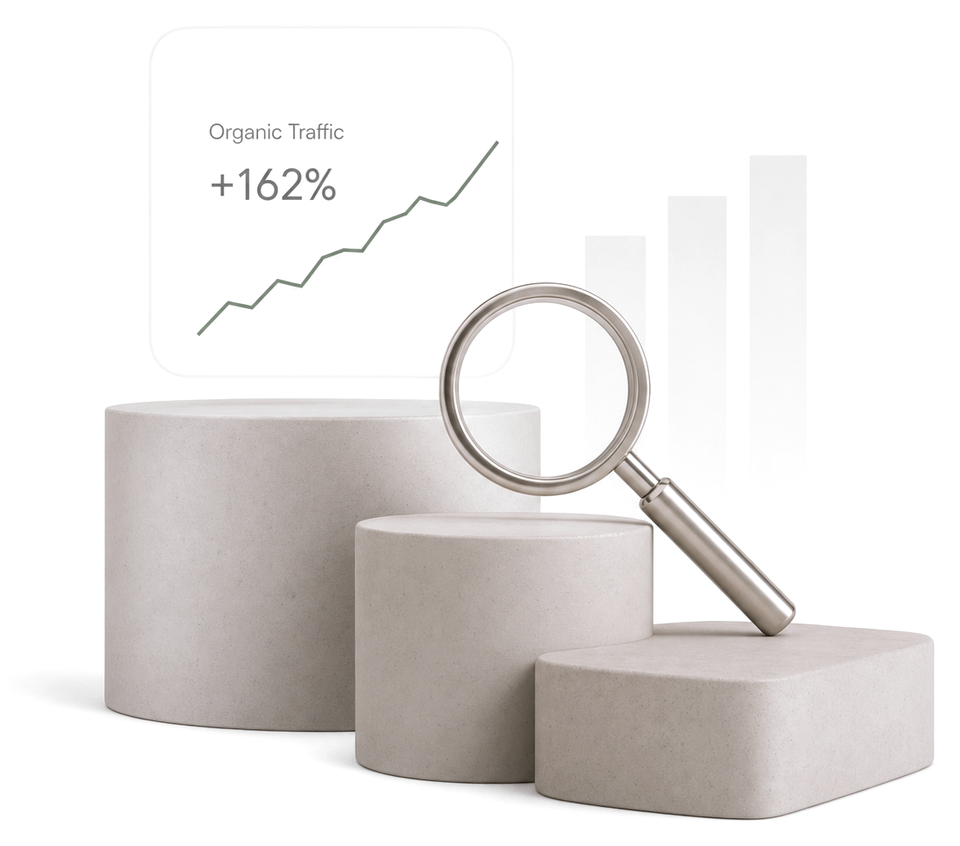
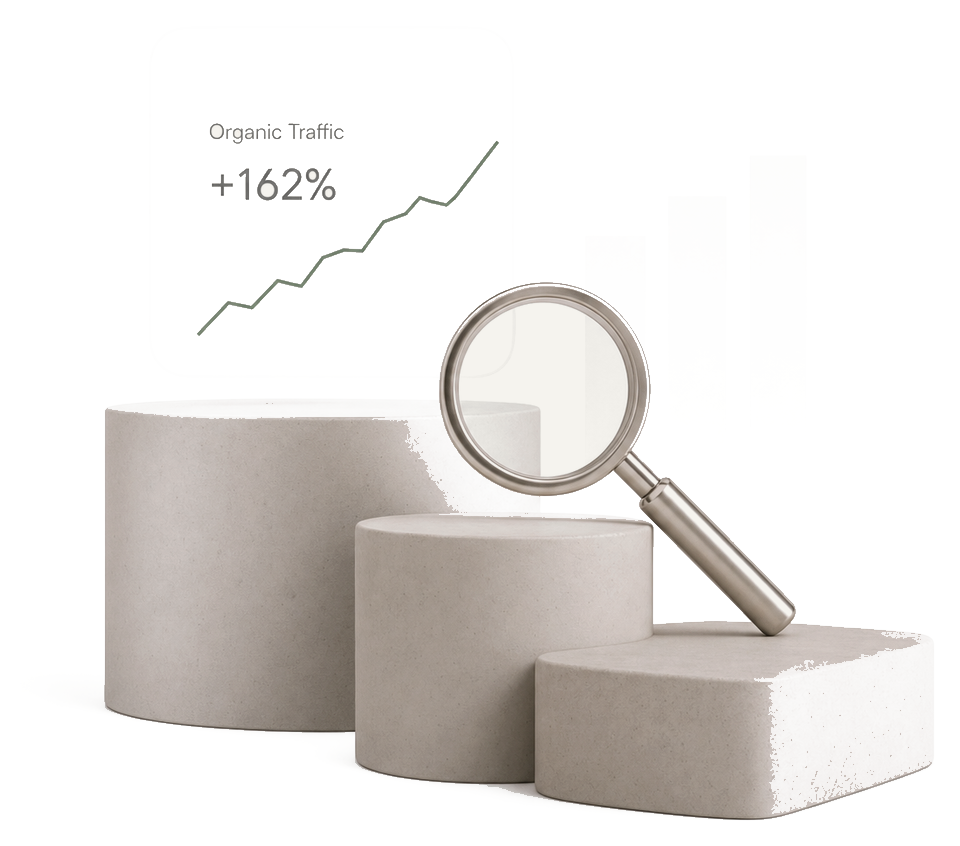
Add services hero river backdrop, solidify podium artwork, vary result charts
- Services hero: misty river/lake background with text-side mist band, lake visible, deeper section
- Flatten + hole-fill services-hero.png so podiums render solid over the backdrop
- Enlarge and lower the hero visual to fill the right column
- Three distinct result sparkline shapes (climb / dip-recover / steps), EN + LT
- Tighten process section bottom padding; desaturate problem map further

diff --git a/lt/index.html b/lt/index.html
@@ -14,7 +14,7 @@
   <link rel="icon" href="../favicon.ico" sizes="32x32" />
   <link rel="icon" type="image/png" sizes="192x192" href="../assets/favicon-192.png" />
   <link rel="apple-touch-icon" href="../assets/apple-touch-icon.png" />
-  <link rel="stylesheet" href="../styles.css?v=14" />
+  <link rel="stylesheet" href="../styles.css?v=16" />
 </head>
 <body>
 
@@ -319,9 +319,9 @@
             <p>Per 6 mėnesius organinis srautas išaugo nuo 45 tūkst. iki 115 tūkst.</p>
             <svg class="result-chart" viewBox="0 0 300 90" preserveAspectRatio="none" aria-hidden="true">
               <defs><linearGradient id="g1" x1="0" y1="0" x2="0" y2="1"><stop offset="0" stop-color="#8A9878" stop-opacity=".35"/><stop offset="1" stop-color="#8A9878" stop-opacity="0"/></linearGradient></defs>
-              <path d="M0 70 40 60 80 66 120 48 160 56 200 34 240 40 280 22 300 14 V90 H0Z" fill="url(#g1)"/>
-              <polyline points="0,70 40,60 80,66 120,48 160,56 200,34 240,40 280,22 300,14" fill="none" stroke="#5B6B4A" stroke-width="2" stroke-linejoin="round"/>
-              <g fill="#5B6B4A"><circle cx="40" cy="60" r="2.5"/><circle cx="80" cy="66" r="2.5"/><circle cx="120" cy="48" r="2.5"/><circle cx="160" cy="56" r="2.5"/><circle cx="200" cy="34" r="2.5"/><circle cx="240" cy="40" r="2.5"/><circle cx="280" cy="22" r="2.5"/></g>
+              <path d="M0 74 40 72 80 69 120 62 160 50 200 38 240 27 280 18 300 14 V90 H0Z" fill="url(#g1)"/>
+              <polyline points="0,74 40,72 80,69 120,62 160,50 200,38 240,27 280,18 300,14" fill="none" stroke="#5B6B4A" stroke-width="2" stroke-linejoin="round"/>
+              <g fill="#5B6B4A"><circle cx="40" cy="72" r="2.5"/><circle cx="80" cy="69" r="2.5"/><circle cx="120" cy="62" r="2.5"/><circle cx="160" cy="50" r="2.5"/><circle cx="200" cy="38" r="2.5"/><circle cx="240" cy="27" r="2.5"/><circle cx="280" cy="18" r="2.5"/></g>
             </svg>
             <a href="#results" class="learn">Žiūrėti sėkmės istoriją <span class="arrow">→</span></a>
           </article>
@@ -332,9 +332,9 @@
             <p>Per 7 mėnesius organinės pajamos išaugo nuo 82 tūkst. $ iki 258 tūkst. $.</p>
             <svg class="result-chart" viewBox="0 0 300 90" preserveAspectRatio="none" aria-hidden="true">
               <defs><linearGradient id="g2" x1="0" y1="0" x2="0" y2="1"><stop offset="0" stop-color="#8A9878" stop-opacity=".35"/><stop offset="1" stop-color="#8A9878" stop-opacity="0"/></linearGradient></defs>
-              <path d="M0 74 40 62 80 68 120 52 160 58 200 38 240 44 280 24 300 12 V90 H0Z" fill="url(#g2)"/>
-              <polyline points="0,74 40,62 80,68 120,52 160,58 200,38 240,44 280,24 300,12" fill="none" stroke="#5B6B4A" stroke-width="2" stroke-linejoin="round"/>
-              <g fill="#5B6B4A"><circle cx="40" cy="62" r="2.5"/><circle cx="80" cy="68" r="2.5"/><circle cx="120" cy="52" r="2.5"/><circle cx="160" cy="58" r="2.5"/><circle cx="200" cy="38" r="2.5"/><circle cx="240" cy="44" r="2.5"/><circle cx="280" cy="24" r="2.5"/></g>
+              <path d="M0 56 40 63 80 74 120 68 160 52 200 40 240 26 280 16 300 12 V90 H0Z" fill="url(#g2)"/>
+              <polyline points="0,56 40,63 80,74 120,68 160,52 200,40 240,26 280,16 300,12" fill="none" stroke="#5B6B4A" stroke-width="2" stroke-linejoin="round"/>
+              <g fill="#5B6B4A"><circle cx="40" cy="63" r="2.5"/><circle cx="80" cy="74" r="2.5"/><circle cx="120" cy="68" r="2.5"/><circle cx="160" cy="52" r="2.5"/><circle cx="200" cy="40" r="2.5"/><circle cx="240" cy="26" r="2.5"/><circle cx="280" cy="16" r="2.5"/></g>
             </svg>
             <a href="#results" class="learn">Žiūrėti sėkmės istoriją <span class="arrow">→</span></a>
           </article>
@@ -345,9 +345,9 @@
             <p>Daugiau nei 120 raktažodžių pateko į pirmą trejetą, įskaitant didelio pirkimo ketinimo užklausas.</p>
             <svg class="result-chart" viewBox="0 0 300 90" preserveAspectRatio="none" aria-hidden="true">
               <defs><linearGradient id="g3" x1="0" y1="0" x2="0" y2="1"><stop offset="0" stop-color="#8A9878" stop-opacity=".35"/><stop offset="1" stop-color="#8A9878" stop-opacity="0"/></linearGradient></defs>
-              <path d="M0 68 40 72 80 58 120 62 160 44 200 50 240 30 280 34 300 12 V90 H0Z" fill="url(#g3)"/>
-              <polyline points="0,68 40,72 80,58 120,62 160,44 200,50 240,30 280,34 300,12" fill="none" stroke="#5B6B4A" stroke-width="2" stroke-linejoin="round"/>
-              <g fill="#5B6B4A"><circle cx="40" cy="72" r="2.5"/><circle cx="80" cy="58" r="2.5"/><circle cx="120" cy="62" r="2.5"/><circle cx="160" cy="44" r="2.5"/><circle cx="200" cy="50" r="2.5"/><circle cx="240" cy="30" r="2.5"/><circle cx="280" cy="34" r="2.5"/></g>
+              <path d="M0 72 48 72 58 56 120 56 130 55 178 40 240 40 250 22 300 20 V90 H0Z" fill="url(#g3)"/>
+              <polyline points="0,72 48,72 58,56 120,56 130,55 178,40 240,40 250,22 300,20" fill="none" stroke="#5B6B4A" stroke-width="2" stroke-linejoin="round"/>
+              <g fill="#5B6B4A"><circle cx="48" cy="72" r="2.5"/><circle cx="58" cy="56" r="2.5"/><circle cx="120" cy="56" r="2.5"/><circle cx="130" cy="55" r="2.5"/><circle cx="178" cy="40" r="2.5"/><circle cx="240" cy="40" r="2.5"/><circle cx="250" cy="22" r="2.5"/></g>
             </svg>
             <a href="#results" class="learn">Žiūrėti sėkmės istoriją <span class="arrow">→</span></a>
           </article>

diff --git a/index.html b/index.html
@@ -14,7 +14,7 @@
   <link rel="icon" href="favicon.ico" sizes="32x32" />
   <link rel="icon" type="image/png" sizes="192x192" href="assets/favicon-192.png" />
   <link rel="apple-touch-icon" href="assets/apple-touch-icon.png" />
-  <link rel="stylesheet" href="styles.css?v=14" />
+  <link rel="stylesheet" href="styles.css?v=16" />
 </head>
 <body>
 
@@ -319,9 +319,9 @@
             <p>Increased organic traffic from 45K to 115K in 6 months.</p>
             <svg class="result-chart" viewBox="0 0 300 90" preserveAspectRatio="none" aria-hidden="true">
               <defs><linearGradient id="g1" x1="0" y1="0" x2="0" y2="1"><stop offset="0" stop-color="#8A9878" stop-opacity=".35"/><stop offset="1" stop-color="#8A9878" stop-opacity="0"/></linearGradient></defs>
-              <path d="M0 70 40 60 80 66 120 48 160 56 200 34 240 40 280 22 300 14 V90 H0Z" fill="url(#g1)"/>
-              <polyline points="0,70 40,60 80,66 120,48 160,56 200,34 240,40 280,22 300,14" fill="none" stroke="#5B6B4A" stroke-width="2" stroke-linejoin="round"/>
-              <g fill="#5B6B4A"><circle cx="40" cy="60" r="2.5"/><circle cx="80" cy="66" r="2.5"/><circle cx="120" cy="48" r="2.5"/><circle cx="160" cy="56" r="2.5"/><circle cx="200" cy="34" r="2.5"/><circle cx="240" cy="40" r="2.5"/><circle cx="280" cy="22" r="2.5"/></g>
+              <path d="M0 74 40 72 80 69 120 62 160 50 200 38 240 27 280 18 300 14 V90 H0Z" fill="url(#g1)"/>
+              <polyline points="0,74 40,72 80,69 120,62 160,50 200,38 240,27 280,18 300,14" fill="none" stroke="#5B6B4A" stroke-width="2" stroke-linejoin="round"/>
+              <g fill="#5B6B4A"><circle cx="40" cy="72" r="2.5"/><circle cx="80" cy="69" r="2.5"/><circle cx="120" cy="62" r="2.5"/><circle cx="160" cy="50" r="2.5"/><circle cx="200" cy="38" r="2.5"/><circle cx="240" cy="27" r="2.5"/><circle cx="280" cy="18" r="2.5"/></g>
             </svg>
             <a href="#results" class="learn">View Case Study <span class="arrow">→</span></a>
           </article>
@@ -332,9 +332,9 @@
             <p>Grew organic revenue from $82K to $258K in 7 months.</p>
             <svg class="result-chart" viewBox="0 0 300 90" preserveAspectRatio="none" aria-hidden="true">
               <defs><linearGradient id="g2" x1="0" y1="0" x2="0" y2="1"><stop offset="0" stop-color="#8A9878" stop-opacity=".35"/><stop offset="1" stop-color="#8A9878" stop-opacity="0"/></linearGradient></defs>
-              <path d="M0 74 40 62 80 68 120 52 160 58 200 38 240 44 280 24 300 12 V90 H0Z" fill="url(#g2)"/>
-              <polyline points="0,74 40,62 80,68 120,52 160,58 200,38 240,44 280,24 300,12" fill="none" stroke="#5B6B4A" stroke-width="2" stroke-linejoin="round"/>
-              <g fill="#5B6B4A"><circle cx="40" cy="62" r="2.5"/><circle cx="80" cy="68" r="2.5"/><circle cx="120" cy="52" r="2.5"/><circle cx="160" cy="58" r="2.5"/><circle cx="200" cy="38" r="2.5"/><circle cx="240" cy="44" r="2.5"/><circle cx="280" cy="24" r="2.5"/></g>
+              <path d="M0 56 40 63 80 74 120 68 160 52 200 40 240 26 280 16 300 12 V90 H0Z" fill="url(#g2)"/>
+              <polyline points="0,56 40,63 80,74 120,68 160,52 200,40 240,26 280,16 300,12" fill="none" stroke="#5B6B4A" stroke-width="2" stroke-linejoin="round"/>
+              <g fill="#5B6B4A"><circle cx="40" cy="63" r="2.5"/><circle cx="80" cy="74" r="2.5"/><circle cx="120" cy="68" r="2.5"/><circle cx="160" cy="52" r="2.5"/><circle cx="200" cy="40" r="2.5"/><circle cx="240" cy="26" r="2.5"/><circle cx="280" cy="16" r="2.5"/></g>
             </svg>
             <a href="#results" class="learn">View Case Study <span class="arrow">→</span></a>
           </article>
@@ -345,9 +345,9 @@
             <p>Ranked 120+ keywords on top 3 positions, including high-intent terms.</p>
             <svg class="result-chart" viewBox="0 0 300 90" preserveAspectRatio="none" aria-hidden="true">
               <defs><linearGradient id="g3" x1="0" y1="0" x2="0" y2="1"><stop offset="0" stop-color="#8A9878" stop-opacity=".35"/><stop offset="1" stop-color="#8A9878" stop-opacity="0"/></linearGradient></defs>
-              <path d="M0 68 40 72 80 58 120 62 160 44 200 50 240 30 280 34 300 12 V90 H0Z" fill="url(#g3)"/>
-              <polyline points="0,68 40,72 80,58 120,62 160,44 200,50 240,30 280,34 300,12" fill="none" stroke="#5B6B4A" stroke-width="2" stroke-linejoin="round"/>
-              <g fill="#5B6B4A"><circle cx="40" cy="72" r="2.5"/><circle cx="80" cy="58" r="2.5"/><circle cx="120" cy="62" r="2.5"/><circle cx="160" cy="44" r="2.5"/><circle cx="200" cy="50" r="2.5"/><circle cx="240" cy="30" r="2.5"/><circle cx="280" cy="34" r="2.5"/></g>
+              <path d="M0 72 48 72 58 56 120 56 130 55 178 40 240 40 250 22 300 20 V90 H0Z" fill="url(#g3)"/>
+              <polyline points="0,72 48,72 58,56 120,56 130,55 178,40 240,40 250,22 300,20" fill="none" stroke="#5B6B4A" stroke-width="2" stroke-linejoin="round"/>
+              <g fill="#5B6B4A"><circle cx="48" cy="72" r="2.5"/><circle cx="58" cy="56" r="2.5"/><circle cx="120" cy="56" r="2.5"/><circle cx="130" cy="55" r="2.5"/><circle cx="178" cy="40" r="2.5"/><circle cx="240" cy="40" r="2.5"/><circle cx="250" cy="22" r="2.5"/></g>
             </svg>
             <a href="#results" class="learn">View Case Study <span class="arrow">→</span></a>
           </article>

diff --git a/styles.css b/styles.css
@@ -414,7 +414,7 @@ p { color: var(--muted); }
   box-shadow: 0 24px 50px -36px rgba(31,34,28,.4);
 }
 .pm-map picture, .pm-map img { position: absolute; inset: 0; width: 100%; height: 100%; }
-.pm-map img { object-fit: cover; filter: saturate(.7) brightness(1.03); }
+.pm-map img { object-fit: cover; filter: saturate(.5) brightness(1.05); }
 .pm-map::after { content: ""; position: absolute; inset: 0; background: rgba(245,243,238,.3); pointer-events: none; }
 .pm-dots {
   position: absolute; inset: 0; z-index: 2;
@@ -507,7 +507,8 @@ p { color: var(--muted); }
 }
 
 /* ---------- section spacing ---------- */
-.services, .process, .results { padding: 70px 0; }
+.services, .results { padding: 70px 0; }
+.process { padding: 78px 0 46px; }
 
 /* ---------- decorative backdrops ---------- */
 /* shared paper grain over the whole page */
@@ -814,7 +815,26 @@ body::after {
 
 /* ---------- services page ---------- */
 /* hero */
-.svc-hero { padding: 40px 0 60px; }
+.svc-hero { padding: 40px 0 110px; position: relative; margin-top: -78px; padding-top: calc(40px + 78px); }
+.svc-hero::before {
+  content: "";
+  position: absolute;
+  inset: 0;
+  z-index: 0;
+  pointer-events: none;
+  background:
+    linear-gradient(180deg, rgba(245,243,238,.3) 0%, rgba(245,243,238,.1) 28%, rgba(245,243,238,.08) 58%, rgba(245,243,238,.5) 84%, var(--bg) 100%),
+    linear-gradient(90deg, rgba(245,243,238,0) 4%, rgba(245,243,238,.3) 22%, rgba(245,243,238,.26) 42%, rgba(245,243,238,0) 62%),
+    url("assets/svc-hero-bg.webp") right 74% / 112% auto no-repeat;
+}
+.svc-hero > .container { position: relative; z-index: 1; }
+@media (max-width: 960px) {
+  .svc-hero::before {
+    background:
+      linear-gradient(180deg, rgba(245,243,238,.42) 0%, rgba(245,243,238,.24) 28%, rgba(245,243,238,.22) 58%, rgba(245,243,238,.7) 86%, var(--bg) 100%),
+      url("assets/svc-hero-bg.webp") center / cover no-repeat;
+  }
+}
 .svc-hero-grid {
   grid-template-columns: 1.05fr 0.95fr;
   grid-template-areas: "copy visual" "trust visual";
@@ -827,9 +847,9 @@ body::after {
 .svc-hero-visual {
   grid-area: visual;
   display: flex; justify-content: center; align-items: center;
-  padding: 10px 0;
+  padding: 56px 0 0;
 }
-.svc-hero-visual picture { display: block; width: min(100%, 470px); }
+.svc-hero-visual picture { display: block; width: min(100%, 600px); }
 .svc-hero-visual img { width: 100%; height: auto; }
 /* ---------- services hero animation ---------- */
 .svc-hero .hero-copy > * { opacity: 0; animation: rise-in .7s cubic-bezier(.2,.7,.2,1) forwards; }
@@ -1207,7 +1227,7 @@ html:not(.js) .rm-track::before {
   .step:not(:last-child)::before, .step:not(:last-child)::after { display: none; }
   .result-grid { grid-template-columns: 1fr; }
   .svc-hero-grid { grid-template-columns: 1fr; grid-template-areas: "copy" "visual" "trust"; gap: 36px; }
-  .svc-hero-visual picture { width: min(100%, 420px); }
+  .svc-hero-visual picture { width: min(100%, 500px); }
   .trust-bar { justify-self: center; justify-content: center; }
   .offer-grid { grid-template-columns: repeat(2, 1fr); }
   .offer-card-wide { grid-column: 1 / -1; }

diff --git a/lt/services.html b/lt/services.html
@@ -14,7 +14,7 @@
   <link rel="icon" href="../favicon.ico" sizes="32x32" />
   <link rel="icon" type="image/png" sizes="192x192" href="../assets/favicon-192.png" />
   <link rel="apple-touch-icon" href="../assets/apple-touch-icon.png" />
-  <link rel="stylesheet" href="../styles.css?v=14" />
+  <link rel="stylesheet" href="../styles.css?v=16" />
 </head>
 <body class="svc-page">
 
@@ -60,8 +60,8 @@
 
         <div class="svc-hero-visual">
           <picture>
-            <source srcset="../assets/services-hero.webp" type="image/webp" />
-            <img src="../assets/services-hero.png" alt="Akmeniniai pjedestalai su didinamuoju stiklu ir kylančiu lankomumo grafiku" width="960" height="846" />
+            <source srcset="../assets/services-hero.webp?v=3" type="image/webp" />
+            <img src="../assets/services-hero.png?v=3" alt="Akmeniniai pjedestalai su didinamuoju stiklu ir kylančiu lankomumo grafiku" width="960" height="846" />
           </picture>
         </div>
 

diff --git a/services.html b/services.html
@@ -14,7 +14,7 @@
   <link rel="icon" href="favicon.ico" sizes="32x32" />
   <link rel="icon" type="image/png" sizes="192x192" href="assets/favicon-192.png" />
   <link rel="apple-touch-icon" href="assets/apple-touch-icon.png" />
-  <link rel="stylesheet" href="styles.css?v=14" />
+  <link rel="stylesheet" href="styles.css?v=16" />
 </head>
 <body class="svc-page">
 
@@ -60,8 +60,8 @@
 
         <div class="svc-hero-visual">
           <picture>
-            <source srcset="assets/services-hero.webp" type="image/webp" />
-            <img src="assets/services-hero.png" alt="Stone podiums with a magnifying glass and a rising traffic chart" width="960" height="846" />
+            <source srcset="assets/services-hero.webp?v=3" type="image/webp" />
+            <img src="assets/services-hero.png?v=3" alt="Stone podiums with a magnifying glass and a rising traffic chart" width="960" height="846" />
           </picture>
         </div>
 

diff --git a/lt/roadmap.html b/lt/roadmap.html
@@ -14,7 +14,7 @@
   <link rel="icon" href="../favicon.ico" sizes="32x32" />
   <link rel="icon" type="image/png" sizes="192x192" href="../assets/favicon-192.png" />
   <link rel="apple-touch-icon" href="../assets/apple-touch-icon.png" />
-  <link rel="stylesheet" href="../styles.css?v=14" />
+  <link rel="stylesheet" href="../styles.css?v=16" />
 </head>
 <body class="rm-page">
 

diff --git a/roadmap.html b/roadmap.html
@@ -14,7 +14,7 @@
   <link rel="icon" href="favicon.ico" sizes="32x32" />
   <link rel="icon" type="image/png" sizes="192x192" href="assets/favicon-192.png" />
   <link rel="apple-touch-icon" href="assets/apple-touch-icon.png" />
-  <link rel="stylesheet" href="styles.css?v=14" />
+  <link rel="stylesheet" href="styles.css?v=16" />
 </head>
 <body class="rm-page">
 
